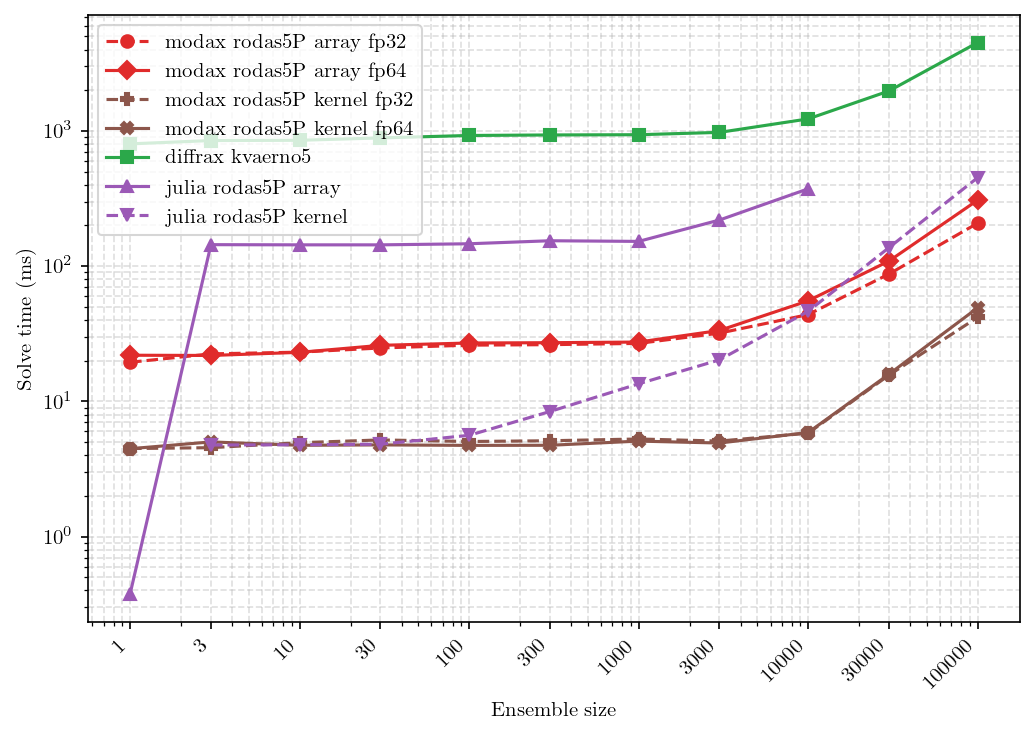
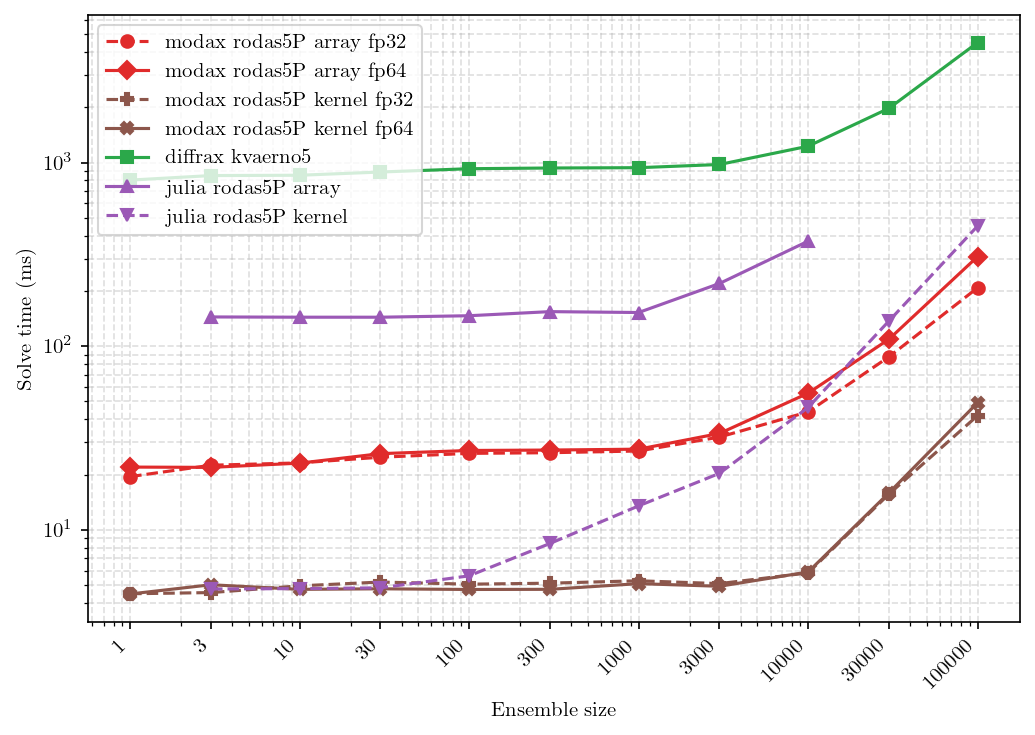
Julia EnsembleGPUArray N=1 trajectory follows non-ensemble backend path which we do not time correctly

diff --git a/scripts/6_rodas5P_robertson_scaling/main.py b/scripts/6_rodas5P_robertson_scaling/main.py
@@ -230,6 +230,16 @@ def collect_timing(case: Case, size: int, y0, params):
 _Row = tuple[str, str, int, float | None]
 
 
+def skip_case_size(case: Case, size: int) -> str | None:
+    if case.ensemble_backend == "EnsembleGPUArray" and size == 1:
+        # DiffEqGPU branches `trajectories == 1` to EnsembleSerial before the
+        # EnsembleGPUArray path runs. That value is therefore neither a GPU
+        # ensemble timing nor directly comparable to the larger-size scaling
+        # curve, so omit the point instead of recording a misleading fast path.
+        return "scalar fast path is not comparable to EnsembleGPUArray scaling"
+    return None
+
+
 def run_benchmarks(
     cases: Sequence[Case], gpu_name: str, cache: dict
 ) -> dict[str, list[_Row]]:
@@ -242,6 +252,14 @@ def run_benchmarks(
             print(f"{case.key}:")
             solver_cache = gpu_cache.setdefault(f"{scenario}_{case.key}", {})
             for size in _ENSEMBLE_SIZES:
+                if skip_reason := skip_case_size(case, size):
+                    print(
+                        f"  {case.key:<24} n={size:>7} ... skipped "
+                        f"({skip_reason})"
+                    )
+                    if solver_cache.pop(str(size), None) is not None:
+                        save_cache(_CACHE_PATH, cache)
+                    continue
                 size_key = str(size)
                 if size_key in solver_cache:
                     ms = solver_cache[size_key]
@@ -296,7 +314,7 @@ def plot(
     ax.grid(True, which="both", linestyle="--", alpha=0.4)
     ax.set_xticks(_ENSEMBLE_SIZES)
     ax.set_xticklabels([str(n) for n in _ENSEMBLE_SIZES], rotation=45, ha="right")
-    ax.legend()
+    ax.legend(loc="upper left")
     fig.tight_layout()
     fig.savefig(output_path, dpi=150, bbox_inches="tight")
     print(f"Plot saved to {output_path}")